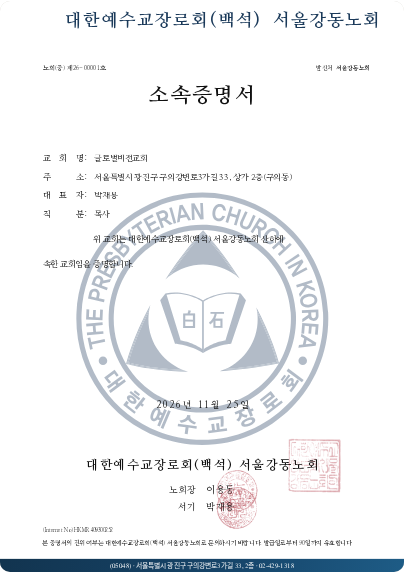
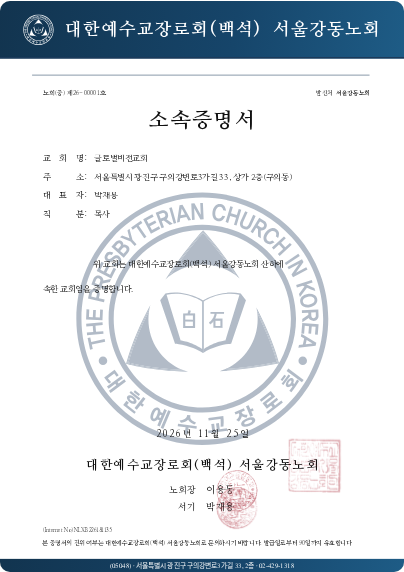
머리글 아래 가로 구분선 제거(머리 띠는 유지), 캐시 v74

diff --git a/index.html b/index.html
@@ -12,7 +12,7 @@
 <meta name="mobile-web-app-capable" content="yes">
 <meta name="apple-mobile-web-app-capable" content="yes">
 <meta name="apple-mobile-web-app-title" content="노회 문서">
-<link rel="stylesheet" href="assets/app.css?v=73">
+<link rel="stylesheet" href="assets/app.css?v=74">
 </head>
 <body>
 
@@ -976,10 +976,10 @@
 
 <div class="toast" id="toast" hidden></div>
 
-<script src="vendor/html2canvas.min.js?v=73"></script>
-<script src="assets/xlsx.js?v=73"></script>
-<script src="assets/app.js?v=73"></script>
-<script src="assets/notice.js?v=73"></script>
-<script src="assets/lock.js?v=73"></script>
+<script src="vendor/html2canvas.min.js?v=74"></script>
+<script src="assets/xlsx.js?v=74"></script>
+<script src="assets/app.js?v=74"></script>
+<script src="assets/notice.js?v=74"></script>
+<script src="assets/lock.js?v=74"></script>
 </body>
 </html>

diff --git a/assets/app.css b/assets/app.css
@@ -203,7 +203,7 @@ main{padding:14px 14px 0}
 .gap-tel[hidden]{display:none}
 .p-holy{margin:1.4mm 0 0;font-size:3.2mm;line-height:1.4;letter-spacing:.02mm;color:#333;white-space:nowrap;overflow:hidden}
 .p-holy[hidden]{display:none}
-.p-rule{display:block;height:0;margin:5.12mm 0 0;border-top:.45mm solid var(--rule-lite,#42618A)}
+.p-rule{display:none}
 /* 총회 주소까지 두 줄이 되면 그만큼 줄 간격을 좁혀 아래 괘선 자리를 지킨다 */
 .paper.has-hq .p-sub{padding-top:1.8mm}
 .paper.has-hq .p-sub .hl2{line-height:1.35}

diff --git a/sw.js b/sw.js
@@ -3,7 +3,7 @@
    운동일지 앱(/Church/)과는 다른 사이트이므로 그쪽 캐시·화면은 건드리지 않는다.
    네트워크가 있으면 새 파일을 먼저 받아 두고, 없으면 받아 둔 사본으로 연다. */
 
-const CACHE = 'certificate-standalone-v73';
+const CACHE = 'certificate-standalone-v74';
 const SHELL = [
   './',
   './index.html',
